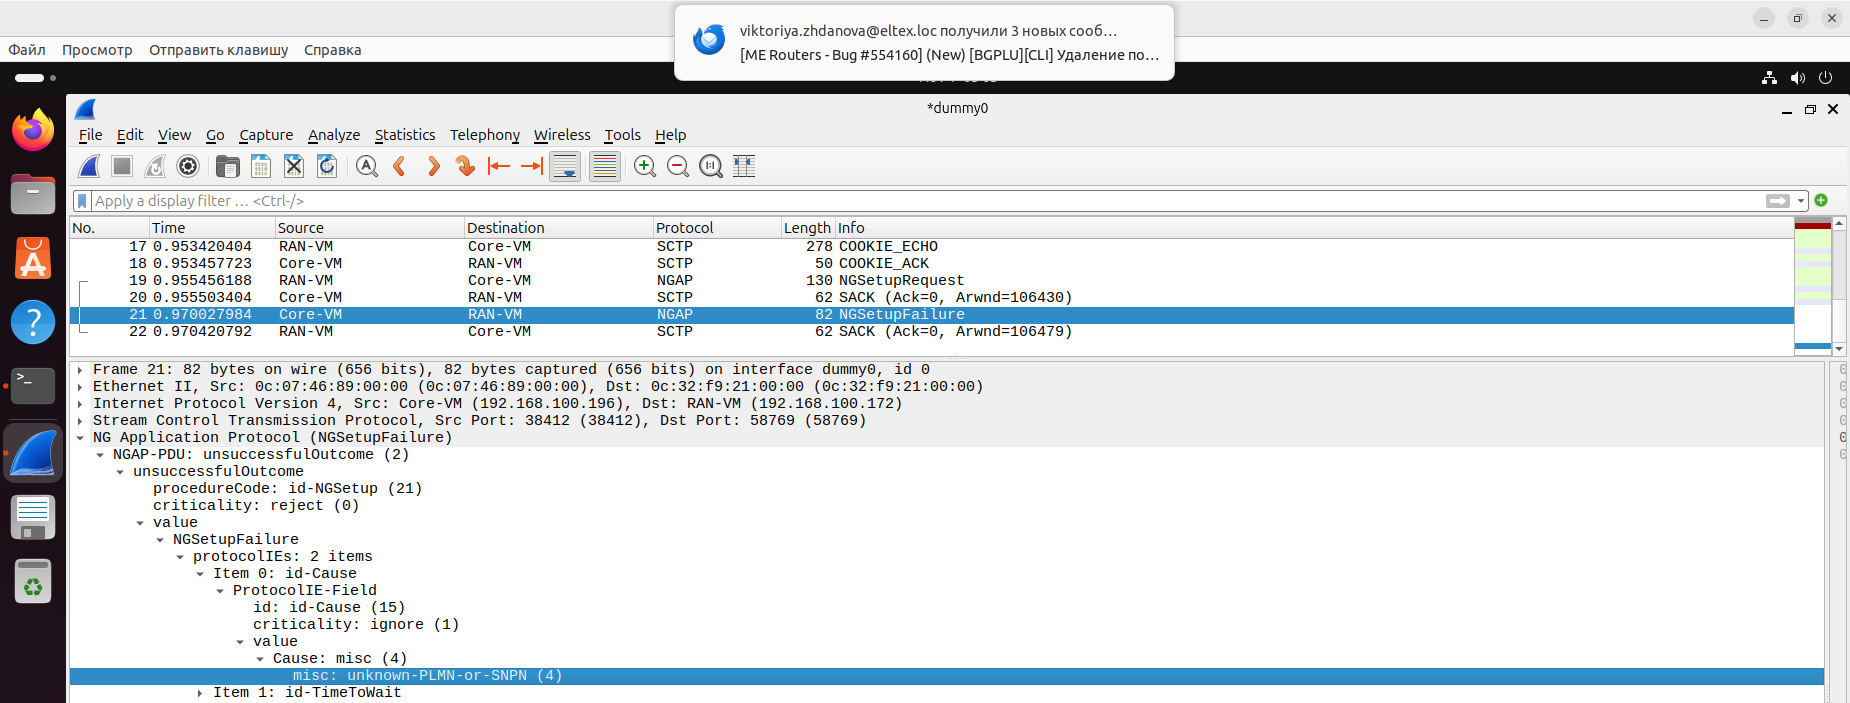
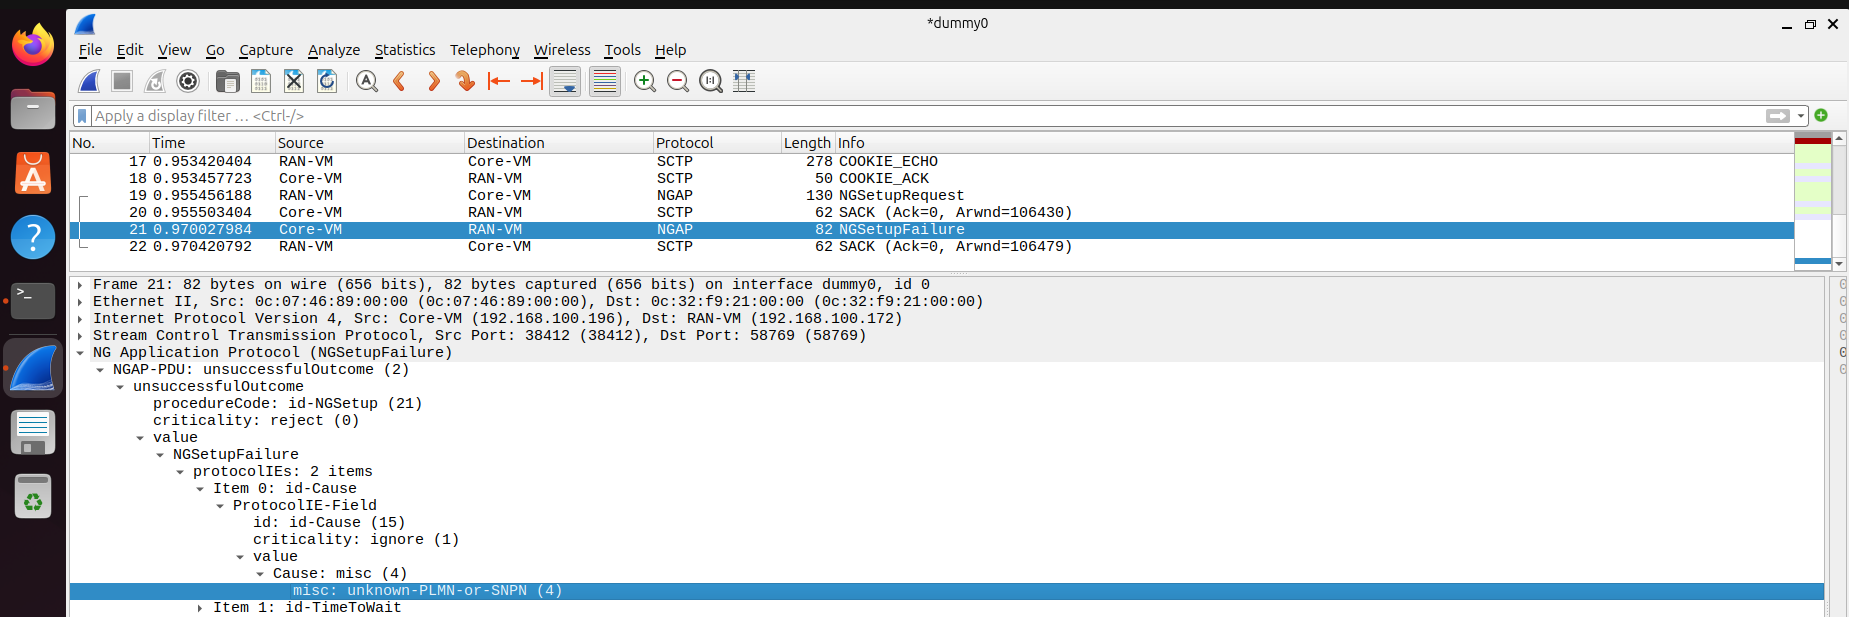
откредактированы инструкции

Changed region(s): [[0.0, 0.0, 1.0, 1.0]]

diff --git a/instructions/break_plmn.md b/instructions/break_plmn.md
@@ -2,29 +2,9 @@
 
 ### 1. Скрипты
 
-**`break_plmn.sh`** (RAN-VM):
-~~~bash
-#!/bin/bash
-GNB_CONFIG="$HOME/UERANSIM/config/open5gs-gnb.yaml"
-BACKUP="${GNB_CONFIG}.bak"
-[ ! -f "$BACKUP" ] && cp "$GNB_CONFIG" "$BACKUP"
+[**`break_plmn.sh`**](../scripts/break_plmn.sh)
 
-# Меняем PLMN в gNB на другой (001/01 вместо 999/70)
-sed -i -E "s/^mcc:.*/mcc: '001'/" "$GNB_CONFIG"
-sed -i -E "s/^mnc:.*/mnc: '01'/" "$GNB_CONFIG"
-
-echo "PLMN в gNB изменён. Проверьте:"
-grep -nE "^mcc:|^mnc:" "$GNB_CONFIG"
-~~~
-
-**`fix_plmn.sh`** (RAN-VM):
-~~~bash
-#!/bin/bash
-GNB_CONFIG="$HOME/UERANSIM/config/open5gs-gnb.yaml"
-BACKUP="${GNB_CONFIG}.bak"
-cp "$BACKUP" "$GNB_CONFIG"
-echo "PLMN восстановлен. Перезапустите gNB."
-~~~
+[**`fix_plmn.sh`**](../scripts/fix_plmn.sh)
 
 ### 2. Воспроизведение
 
@@ -48,27 +28,39 @@ sudo grep -i "plmn\|ng.setup\|fail" /var/log/open5gs/amf.log | tail -20
 [amf] WARNING: NG-Setup failure:
 [amf] WARNING:     globalGNB_ID PLMN-ID is foreign
 ~~~
-Это прямое указание на то, что PLMN, который прислал gNB, не совпадает с тем, что настроен в AMF [citation:12].
+
+<p align="center">
+  <img src="../images/break_plmn_amf.png" alt="break_plmn_ue" />
+</p>
+
+Это прямое указание на то, что PLMN, который прислал gNB, не совпадает с тем, что настроен в AMF.
 
 #### Логи gNB (RAN-VM)
 
 В терминале, где запущен gNB, после отправки `NG Setup Request` вы не увидите `NG Setup procedure is successful`. Вместо этого будет ошибка или таймаут.
 
-#### Wireshark (захват на dummy0)
+<p align="center">
+  <img src="../images/break_plmn_gnb.png" alt="break_plmn_gnb" />
+</p>
 
-**Фильтр для поиска NG Setup:**
-~~~
-ngap.procedureCode == 21
-~~~
-(21 — `NGSetup`)
+#### Wireshark (захват на dummy0)
 
 **Где именно смотреть:**
 1. Найдите пакет `NGSetupRequest` (от gNB к AMF).
-2. Внутри него разверните `GlobalRANNodeID` → `GlobalGNB-ID` → `PLMNIdentity`. Вы увидите `mcc=001, mnc=01` (или те, что вы указали в скрипте).
-3. Следом должен идти пакет **`NGSetupFailure`** (от AMF к gNB).
-4. В `NGSetupFailure` разверните `Cause`. Причина будет связана с PLMN (например, `misc` или `plmn-not-served`) [citation:4].
+2. Внутри него разверните `GlobalRANNodeID` → `GlobalGNB-ID` → `PLMNIdentity`. Вы увидите `mcc=xxx, mnc=xx`.
 
-> **Важно**: Если AMF настроен корректно, но в его конфигурации `plmn_support` нет PLMN, который прислал gNB, NG Setup будет отклонён. Это соответствует 3GPP TS 38.413: AMF должен отклонить процедуру, если не может обслуживать ни один из PLMN, указанных gNB [citation:12].
+<p align="center">
+  <img src="../images/break_plmn_dump1.png" alt="break_plmn_dump1" />
+</p>
+
+3. Следом должен идти пакет **`NGSetupFailure`** (от AMF к gNB).
+4. В `NGSetupFailure` разверните `Cause`.
+
+<p align="center">
+  <img src="../images/break_plmn_dump2.png" alt="break_plmn_dump2" />
+</p>
+
+> **Важно**: Если AMF настроен корректно, но в его конфигурации `plmn_support` нет PLMN, который прислал gNB, NG Setup будет отклонён.
 
 ### 4. Устранение
 
@@ -83,15 +75,18 @@ sudo ./build/nr-gnb -c config/open5gs-gnb.yaml
 ~~~bash
 sudo ./build/nr-ue -c config/open5gs-ue.yaml
 ~~~
+После перезапуска дождитесь `PDU Session establishment is successful` и `TUN interface[uesimtun0, ...] is up`, затем проверьте:
+~~~bash
+ping -I 10.45.0.x -c 2 8.8.8.8
+~~~
 
-### 5. Сводная таблица для каталога
+### 5. Сводная таблица
 
 | Поле | Содержание |
 |---|---|
 | **Название** | Несовпадение PLMN между gNB и AMF |
-| **Симптом в логах AMF** | `NG-Setup failure:`, `globalGNB_ID PLMN-ID is foreign` |
+| **Симптом в логах AMF** | `NG-Setup failure:` <br> `globalGNB_ID PLMN-ID is foreign` |
 | **Симптом в логах gNB** | Нет `NG Setup procedure is successful`, ошибка или таймаут |
 | **Симптом в Wireshark** | `NGSetupRequest` содержит PLMN, отличный от AMF; ответ — `NGSetupFailure` с причиной, связанной с PLMN |
 | **Поведение абонента** | gNB не подключается к Core, UE не видит сеть или не может зарегистрироваться |
 | **Локализация** | Сравнить `mcc`/`mnc` в `open5gs-gnb.yaml` и в `amf.yaml` (секции `guami`, `tai`, `plmn_support`) |
-| **Устранение** | Вернуть корректный PLMN в gNB (`fix_plmn.sh`), перезапустить gNB |

diff --git a/instructions/break_mtu.md b/instructions/break_mtu.md
@@ -2,21 +2,9 @@
 
 ### 1. Скрипты
 
-**`break_mtu.sh`** (Core-VM):
-~~~bash
-#!/bin/bash
-sudo ip link set dev ogstun mtu 1200
-echo "MTU на ogstun изменён на 1200."
-ip link show ogstun | grep mtu
-~~~
+[**`break_mtu.sh`**](../scripts/break_mtu.sh)
 
-**`fix_mtu.sh`** (Core-VM):
-~~~bash
-#!/bin/bash
-sudo ip link set dev ogstun mtu 1400
-echo "MTU на ogstun восстановлен (1400)."
-ip link show ogstun | grep mtu
-~~~
+[**`fix_mtu.sh`** ](../scripts/fix_mtu.sh)
 
 > На RAN-VM перед проверкой убедитесь, что MTU на `uesimtun0` не меньше 1400:
 > ~~~bash
@@ -43,25 +31,35 @@ ping -I 10.45.0.x -s 1300 -M do -c 4 8.8.8.8
 
 #### Логи UE (RAN-VM)
 
-При отправке крупного пакета с `-M do` ядро RAN-VM возвращает локальную ошибку **до** отправки пакета в туннель:
+При отправке крупного пакета с `-M do` ядро RAN-VM возвращает локальную ошибку до отправки пакета в туннель:
 ~~~
 ping: local error: message too long, mtu=1200
 ~~~
+
+<p align="center">
+  <img src="../images/break_mtu_ping.png" alt="break_mtu_ping" />
+</p>
+
 Это означает, что ядро RAN-VM знает эффективный MTU пути (1200, от `ogstun`) и отказывается отправлять пакет с DF, который не влезает в этот MTU.
 
 #### Wireshark (захват на dummy0)
 
-**Фильтр:**
-~~~
-icmp
-~~~
-
 **Что искать:**
-- На `ogstun` (если захватывать там) крупные ICMP-запросы **отсутствуют** — они отбрасываются на RAN-VM.
-- Мелкие ICMP-запросы (`-s 100`) проходят нормально.
-- Если отправлять крупные пакеты **без** `-M do` (разрешив фрагментацию), на `ogstun` можно увидеть фрагментированные пакеты, но ответы могут не возвращаться.
 
-> **Важно**: Это классический «blackhole MTU» — handshake и мелкие пакеты проходят, а крупные данные (HTTP, загрузки) зависают. В Wireshark на `dummy0` вы не увидите крупных пакетов от UE, потому что они отбрасываются локально на RAN-VM.
+- Крупные ICMP-запросы не получают ответа.
+
+<p align="center">
+  <img src="../images/break_mtu_dump1.png" alt="break_mtu_dump1" />
+</p>
+
+- Мелкие ICMP-запросы (`-s 100`) проходят нормально.
+- Если отправлять крупные пакеты без `-M do` (разрешив фрагментацию), можно увидеть фрагментированные пакеты, но ответы могут не возвращаться.
+
+<p align="center">
+  <img src="../images/break_mtu_dump2.png" alt="break_mtu_dump2" />
+</p>
+
+> **Важно**: Это классический «blackhole MTU» — handshake и мелкие пакеты проходят, а крупные данные (HTTP, загрузки) зависают.
 
 #### Проверка MTU на интерфейсах
 
@@ -72,9 +70,12 @@ ip link show ogstun | grep mtu   # должно быть 1200 (сломано)
 
 На RAN-VM:
 ~~~bash
-ip link show uesimtun0 | grep mtu   # обычно 1400
+ip link show ens3 | grep mtu   # обычно 1400
 ip route get 8.8.8.8 from 10.45.0.x   # показывает эффективный MTU пути
 ~~~
+<p align="center">
+  <img src="../images/break_mtu_ran.png" alt="break_mtu_ping" />
+</p>
 
 ### 4. Устранение
 
@@ -92,9 +93,8 @@ sudo ip route flush cache
 ~~~bash
 ping -I 10.45.0.x -s 1300 -M do -c 4 8.8.8.8
 ~~~
-Теперь пакет должен пройти.
 
-### 5. Сводная таблица для каталога
+### 5. Сводная таблица
 
 | Поле | Содержание |
 |---|---|

diff --git a/README.md b/README.md
@@ -183,12 +183,12 @@ sudo netfilter-persistent save
 </p>
 
 <p align="center">
-  <img src="images/image3.png" alt="WebUI1" width="70%" />
+  <img src="images/image3.png" alt="WebUI1"/>
 </p>
 
 
 <p align="center">
-  <img src="images/image4.png" alt="WebUI2" width="70%" />
+  <img src="images/image4.png" alt="WebUI2"/>
 </p>
 
 ### 2.8. Проверка служб
@@ -349,7 +349,7 @@ tc filter show dev lo ingress
 
 ---
 
-## 5.3. Имена сетевых функций и фильтрация
+### 5.3. Имена сетевых функций и фильтрация
 
 Чтобы в дампе вместо IP-адресов отображались имена (`AMF`, `SMF`, `UPF` и т.д.), а фильтры работали по этим именам, нужно один раз настроить файл `hosts` Wireshark и включить разрешение имён.
 
@@ -391,8 +391,8 @@ tc filter show dev lo ingress
 
 1. [Неверный DNN](instructions/break_dnn.md)
 2. [Рассогласование ключей (K/OPc)](instructions/break_keys.md)
-3. Несовпадение PLMN
-4. Некорректный MTU
+3. [Несовпадение PLMN](instructions/break_plmn.md)
+4. [Некорректный MTU](instructions/break_mtu.md)
 5. Потерянный маршрут
 6. Отсутствующий абонент в WebUI
 7. Недоступность PCF

diff --git a/instructions/break_keys.md b/instructions/break_keys.md
@@ -2,9 +2,9 @@
 
 ### 1. Скрипты
 
-**`break_keys.sh`** (RAN-VM):
+[**`break_keys.sh`**](../scripts/break_keys.sh)
 
-**`fix_keys.sh`** (RAN-VM):
+[**`fix_keys.sh`**](../scripts/break_keys.sh)
 
 ### 2. Воспроизведение
 
@@ -77,7 +77,7 @@ sudo ./build/nr-ue -c config/open5gs-ue.yaml
 ping -I 10.45.0.x -c 2 8.8.8.8
 ~~~
 
-### 5. Сводная таблица для каталога
+### 5. Сводная таблица
 
 | Поле | Содержание |
 |---|---|

diff --git a/instructions/break_dnn.md b/instructions/break_dnn.md
@@ -2,9 +2,9 @@
 
 ### 1. Скрипты
 
-**`break_dnn.sh`**
+[**`break_dnn.sh`**](../scripts/break_dnn.sh)
 
-**`fix_dnn.sh`**
+[**`fix_dnn.sh`**](../scripts/fix_dnn.sh)
 
 ### 2. Воспроизведение
 
@@ -74,7 +74,7 @@ sudo ./build/nr-ue -c config/open5gs-ue.yaml
 ping -I 10.45.0.x -c 2 8.8.8.8
 ~~~
 
-### 5. Сводная таблица для каталога
+### 5. Сводная таблица
 
 | Поле | Содержание |
 |---|---|
